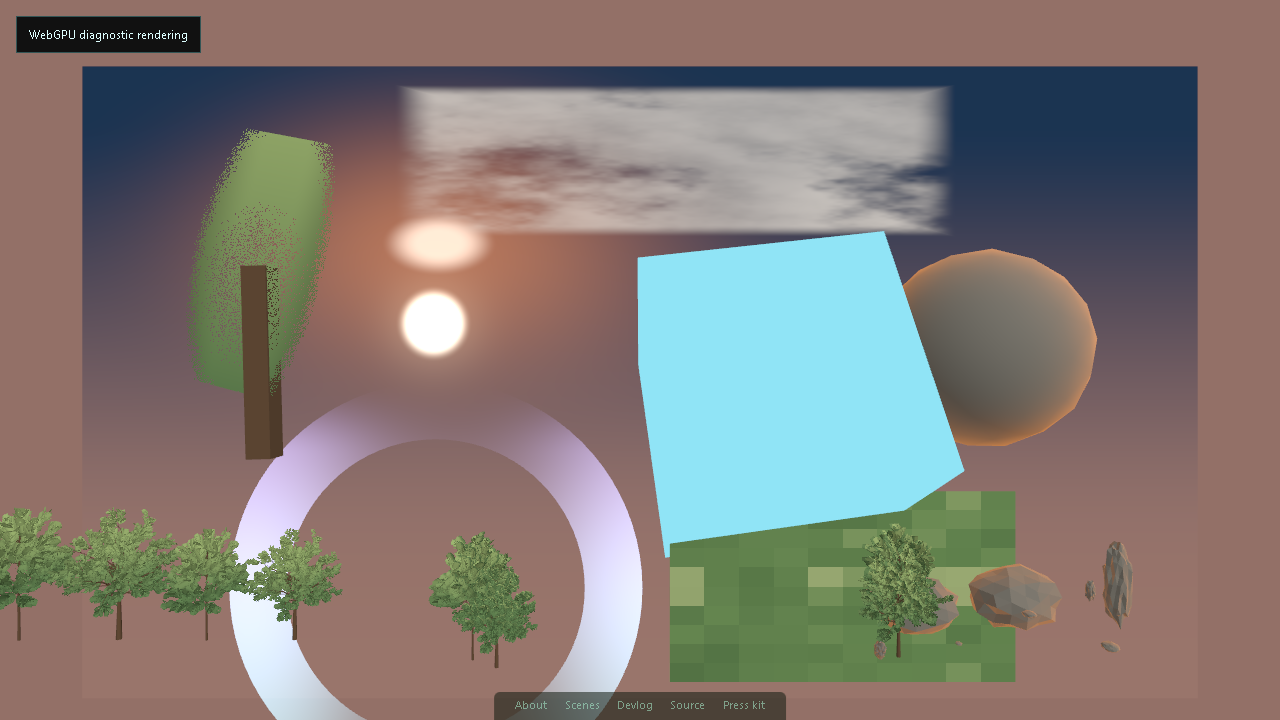
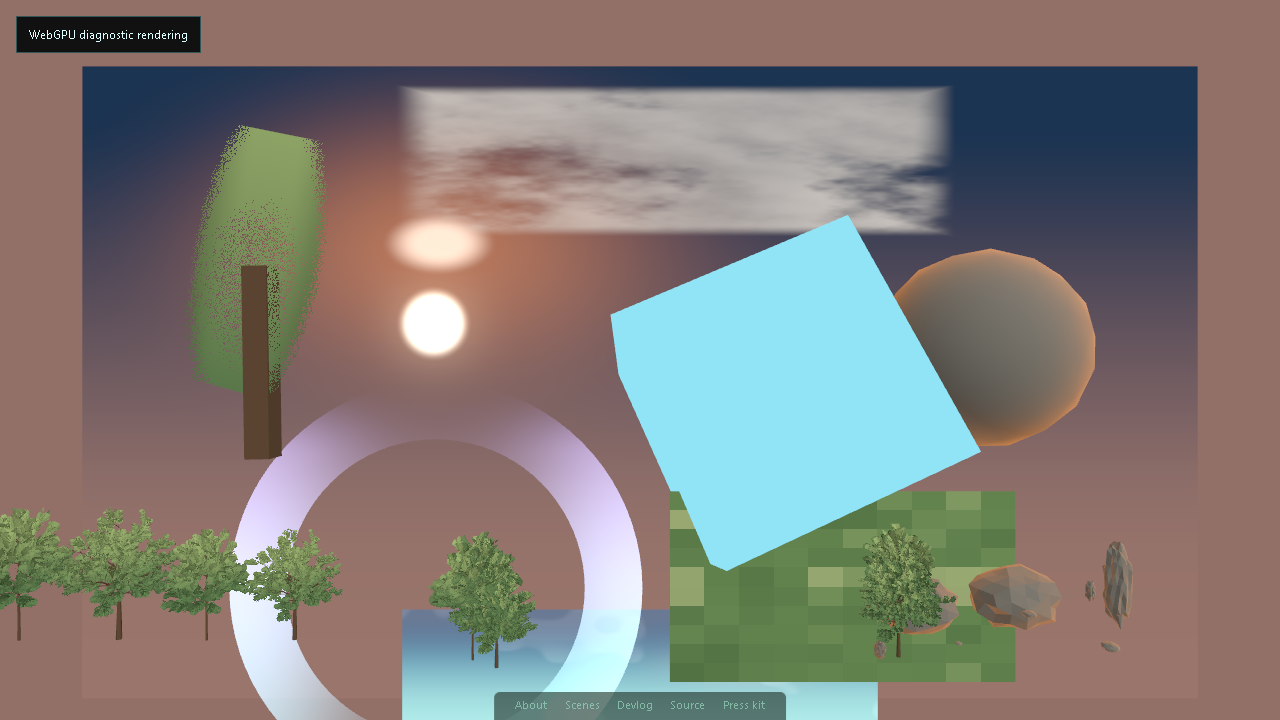
feat(konveyor): add diagnostic water island

diff --git a/js/diagnostics/webgpuDiagnostic.js b/js/diagnostics/webgpuDiagnostic.js
@@ -6,6 +6,49 @@ import { createSkyFogSamplePacket } from '../atmosphere/skyFogSamplePacket.js';
 import { createRuntimeGlbMaterialReplacementProof } from './webgpuGlbMaterialProof.js';
 import { createRuntimeGlbPreview } from './webgpuRuntimeGlbPreview.js';
 
+const DIAGNOSTIC_WATER_PALETTE_RGB = Object.freeze({
+    shallow: [0x6f, 0xd7, 0xd2],
+    deep: [0x10, 0x36, 0x62],
+    foam: [0xea, 0xf6, 0xff],
+});
+
+const DIAGNOSTIC_FOAM_THICKNESS = 2.5;
+
+function clamp01(value) {
+    return Math.min(1, Math.max(0, value));
+}
+
+function computeDiagnosticShorelineMetrics({
+    x,
+    z,
+    centerX = 0,
+    centerZ = 0,
+    boundaryRadius,
+    boundaryFalloff,
+    foamThickness = DIAGNOSTIC_FOAM_THICKNESS,
+}) {
+    const falloff = Math.max(boundaryFalloff, 0.001);
+    const radialDistance = Math.hypot(x - centerX, z - centerZ);
+    const distanceFromShore = Math.abs(radialDistance - boundaryRadius);
+    const depthT = clamp01(distanceFromShore / falloff);
+    const foamMask = distanceFromShore < foamThickness ? 1 : 0;
+
+    return {
+        radialDistance,
+        distanceFromShore,
+        depthT,
+        foamMask,
+    };
+}
+
+function mixDiagnosticWaterBaseColor(depthT) {
+    const t = clamp01(depthT);
+    return DIAGNOSTIC_WATER_PALETTE_RGB.shallow.map((channel, index) => {
+        const deep = DIAGNOSTIC_WATER_PALETTE_RGB.deep[index];
+        return Math.round(channel + (deep - channel) * t);
+    });
+}
+
 async function loadWebGpuThree() {
     const webGpuModulePath = './vendor/three/three.webgpu.min.js';
     return import(/* @vite-ignore */ new URL(webGpuModulePath, import.meta.url).href);
@@ -149,6 +192,42 @@ export function createRockRimDiagnosticState(skyFog = createSkyFogDiagnosticStat
     };
 }
 
+function normalizedRgb(rgb) {
+    return rgb.map((channel) => Number((channel / 255).toFixed(4)));
+}
+
+export function createAnimeWaterDiagnosticState(skyFog = createSkyFogDiagnosticState()) {
+    const nearShoreMetrics = computeDiagnosticShorelineMetrics({
+        x: 0,
+        z: 0,
+        boundaryRadius: 0,
+        boundaryFalloff: 12,
+        foamThickness: DIAGNOSTIC_FOAM_THICKNESS,
+    });
+    const farWaterMetrics = computeDiagnosticShorelineMetrics({
+        x: 12,
+        z: 0,
+        boundaryRadius: 0,
+        boundaryFalloff: 12,
+        foamThickness: DIAGNOSTIC_FOAM_THICKNESS,
+    });
+
+    return {
+        shallowColor: normalizedRgb(DIAGNOSTIC_WATER_PALETTE_RGB.shallow),
+        deepColor: normalizedRgb(DIAGNOSTIC_WATER_PALETTE_RGB.deep),
+        foamColor: normalizedRgb(DIAGNOSTIC_WATER_PALETTE_RGB.foam),
+        nearShoreColor: normalizedRgb(mixDiagnosticWaterBaseColor(nearShoreMetrics.depthT)),
+        farWaterColor: normalizedRgb(mixDiagnosticWaterBaseColor(farWaterMetrics.depthT)),
+        fogColor: skyFog.fogColor,
+        sunColor: skyFog.sunColor,
+        sunDirection: skyFog.sunDirection,
+        foamThickness: DIAGNOSTIC_FOAM_THICKNESS,
+        rippleStrength: 1.0,
+        sparkleStrength: 0.7,
+        heightfieldSampling: 'deferred',
+    };
+}
+
 export function createTreeLeafDiagnosticState() {
     return {
         baseColor: [0.18, 0.34, 0.12],
@@ -163,6 +242,53 @@ export function createTreeLeafDiagnosticState() {
         occluderPeak: 0.62,
         occluderUv: [0.5, 0.42],
     };
+}
+
+function createAnimeWaterNodeMaterial({ MeshBasicNodeMaterial, DoubleSide, TSL }, water) {
+    const { dot, float, floor, fract, length, mix, pow, sin, smoothstep, time, uv, vec2, vec3 } = TSL;
+    const hash21 = (p) => {
+        const q = fract(p.mul(vec2(123.34, 456.21)));
+        const r = q.add(dot(q, q.add(45.32)));
+        return fract(r.x.mul(r.y));
+    };
+    const valueNoise = (p) => {
+        const i = floor(p);
+        const f = fract(p);
+        const a = hash21(i);
+        const b = hash21(i.add(vec2(1.0, 0.0)));
+        const c = hash21(i.add(vec2(0.0, 1.0)));
+        const d = hash21(i.add(vec2(1.0, 1.0)));
+        const u = f.mul(f).mul(vec2(3.0, 3.0).sub(f.mul(2.0)));
+        return mix(a, b, u.x)
+            .add(c.sub(a).mul(u.y).mul(u.x.oneMinus()))
+            .add(d.sub(b).mul(u.x).mul(u.y));
+    };
+
+    const waterUv = uv();
+    const depthT = smoothstep(0.18, 0.92, waterUv.y);
+    const rippleUv = waterUv.mul(vec2(7.5, 3.8)).add(vec2(time.mul(0.08), time.mul(0.04)));
+    const rippleA = valueNoise(rippleUv);
+    const rippleB = valueNoise(rippleUv.mul(2.35).add(vec2(time.mul(0.05), time.mul(-0.03))));
+    const ripple = smoothstep(0.56, 0.66, rippleA.mul(0.68).add(rippleB.mul(0.32)))
+        .mul(water.rippleStrength * 0.08);
+    const foamNoise = valueNoise(waterUv.mul(vec2(18.0, 3.0)).add(vec2(time.mul(0.07), 0.0)));
+    const foamBand = float(1.0).sub(smoothstep(0.10, 0.22, waterUv.y.add(foamNoise.mul(0.04))));
+    const glintDelta = waterUv.sub(vec2(0.72, 0.64));
+    const glint = pow(float(1.0).sub(smoothstep(0.0, 0.42, length(glintDelta))), 4.0)
+        .mul(water.sparkleStrength);
+    const fogBlend = smoothstep(0.56, 1.0, waterUv.y).mul(0.36);
+    const baseColor = mix(vec3(...water.shallowColor), vec3(...water.deepColor), depthT)
+        .add(vec3(ripple, ripple, ripple))
+        .add(vec3(...water.sunColor).mul(glint.mul(0.35)));
+    const colorWithFoam = mix(baseColor, vec3(...water.foamColor), foamBand);
+
+    const material = new MeshBasicNodeMaterial();
+    material.name = 'konveyor-node-anime-water';
+    material.colorNode = mix(colorWithFoam, vec3(...water.fogColor), fogBlend);
+    material.side = DoubleSide;
+    material.depthWrite = true;
+    material.depthTest = true;
+    return material;
 }
 
 function createSkyFogNodeMaterial({ MeshBasicNodeMaterial, TSL }, skyFog) {
@@ -263,6 +389,7 @@ function createTreeBranchNodeMaterial({ MeshStandardNodeMaterial, TSL }) {
 export async function bootWebGpuDiagnostic() {
     const skyFog = createSkyFogDiagnosticState();
     const rockRim = createRockRimDiagnosticState(skyFog);
+    const animeWater = createAnimeWaterDiagnosticState(skyFog);
     const treeLeaf = createTreeLeafDiagnosticState();
     const state = window.__sdsG = {
         ...(window.__sdsG || {}),
@@ -270,9 +397,10 @@ export async function bootWebGpuDiagnostic() {
         requested: true,
         ok: false,
         renderer: 'webgpu',
-        islands: ['sun-billboard', 'portal-ring', 'meadow-quad', 'cloud-plane', 'sky-fog', 'rock-rim', 'tree-leaf', 'glb-material-replacement', 'runtime-glb-material-proof', 'runtime-glb-rendered-clones', 'production-placement-preview', 'production-instanced-tree-preview', 'diagnostic-rock-instancing-preview'],
+        islands: ['sun-billboard', 'portal-ring', 'meadow-quad', 'cloud-plane', 'sky-fog', 'rock-rim', 'tree-leaf', 'anime-water', 'glb-material-replacement', 'runtime-glb-material-proof', 'runtime-glb-rendered-clones', 'production-placement-preview', 'production-instanced-tree-preview', 'diagnostic-rock-instancing-preview'],
         skyFog,
         rockRim,
+        animeWater,
         treeLeaf,
         materialReplacement: null,
         runtimeGlbReplacement: null,
@@ -462,6 +590,13 @@ export async function bootWebGpuDiagnostic() {
     meadow.position.set(0.85, -0.75, 0.1);
     scene.add(meadow);
 
+    const water = new Mesh(
+        new PlaneGeometry(2.0, 0.62, 1, 1),
+        createAnimeWaterNodeMaterial({ MeshBasicNodeMaterial, DoubleSide, TSL }, animeWater)
+    );
+    water.position.set(0.0, -1.16, 0.09);
+    scene.add(water);
+
     const cloudPlane = new Mesh(
         new PlaneGeometry(2.4, 0.65, 1, 1),
         createCloudPlaneNodeMaterial({ MeshBasicNodeMaterial, DoubleSide, TSL })
@@ -508,6 +643,8 @@ export async function bootWebGpuDiagnostic() {
         portal.material.dispose();
         meadow.geometry.dispose();
         meadow.material.dispose();
+        water.geometry.dispose();
+        water.material.dispose();
         cloudPlane.geometry.dispose();
         cloudPlane.material.dispose();
         renderer.dispose();

diff --git a/tests/webgpu-diagnostic.spec.js b/tests/webgpu-diagnostic.spec.js
@@ -2,6 +2,7 @@ import { describe, expect, it } from 'vitest';
 import * as THREE from 'three';
 
 import {
+  createAnimeWaterDiagnosticState,
   createRockRimDiagnosticState,
   createSkyFogDiagnosticState,
   createTreeLeafDiagnosticState,
@@ -18,6 +19,7 @@ import {
 } from '../js/diagnostics/webgpuGlbMaterialProof.js';
 import { RUNTIME_GLB_RENDER_PREVIEW_ASSETS } from '../js/diagnostics/webgpuRuntimeGlbPreview.js';
 import { createSkyFogSamplePacket } from '../js/atmosphere/skyFogSamplePacket.js';
+import { WATER_PALETTE_RGB, mixWaterBaseColor } from '../js/water/AnimeWater.js';
 import { createProductionTreePlacementPlan } from '../js/diagnostics/webgpuProductionPlacementPlan.js';
 import { createDiagnosticRockPlacementPlan } from '../js/diagnostics/webgpuRockPlacementPlan.js';
 import { HosekWilkieSky } from '../js/atmosphere/HosekWilkieSky.js';
@@ -45,6 +47,7 @@ describe('webgpu diagnostic sky fog state', () => {
     expect(state.cpuVisible).toBe(true);
     expect(state.horizonColor).toHaveLength(3);
     expect(state.sunColor).toHaveLength(3);
+    expect(state.sunDirection).toHaveLength(3);
     expect(state.fogColor).toEqual(
       state.horizonColor.map((v) => Number((v * state.fogDarkenMultiplier).toFixed(4)))
     );
@@ -82,6 +85,22 @@ describe('webgpu diagnostic sky fog state', () => {
     expect(rockRim.sunColorSource).toBe('skyFog.sunColor');
     expect(rockRim.rimStrength).toBeGreaterThan(0);
     expect(rockRim.rimPower).toBeGreaterThan(1);
+  });
+
+  it('keeps anime water diagnostic inputs tied to production palette and atmosphere packet', () => {
+    const skyFog = createSkyFogDiagnosticState();
+    const water = createAnimeWaterDiagnosticState(skyFog);
+    const normalize = (rgb) => rgb.map((channel) => Number((channel / 255).toFixed(4)));
+
+    expect(water.shallowColor).toEqual(normalize(WATER_PALETTE_RGB.shallow));
+    expect(water.deepColor).toEqual(normalize(WATER_PALETTE_RGB.deep));
+    expect(water.foamColor).toEqual(normalize(WATER_PALETTE_RGB.foam));
+    expect(water.nearShoreColor).toEqual(normalize(mixWaterBaseColor(0)));
+    expect(water.farWaterColor).toEqual(normalize(mixWaterBaseColor(1)));
+    expect(water.fogColor).toBe(skyFog.fogColor);
+    expect(water.sunColor).toBe(skyFog.sunColor);
+    expect(water.sunDirection).toBe(skyFog.sunDirection);
+    expect(water.heightfieldSampling).toBe('deferred');
   });
 
   it('keeps the tree leaf diagnostic scoped to wind and occluder inputs', () => {

diff --git a/js/main.js b/js/main.js
@@ -24,7 +24,6 @@ import { loadScene, listScenes, DEFAULT_SCENE_ID } from '../shared/scenes/index.
 import { Heightfield } from '../shared/terrain/Heightfield.js';
 import { Atmosphere } from './atmosphere/index.js';
 import { SunBillboard } from './effects/SunBillboard.js';
-import { screenshotCapture } from './utils/ScreenshotCapture.js';
 import { updateSceneMetadata } from './utils/seo.js';
 // Cycle 17 Phase 7: local-multiplayer modules dynamic-imported in
 // startLocalGame() so they only ship when the user actually picks Local Mode.
@@ -2139,6 +2138,9 @@ window.addEventListener('DOMContentLoaded', () => {
             .catch((err) => window.__sdsG.error = err?.message || err);
         return;
     }
+
+    import('./utils/ScreenshotCapture.js')
+        .catch((err) => console.warn('[SCREENSHOT] helper load failed:', err?.message || err));
 
     const gameInstance = new SheepDogSimulation();
 

diff --git a/js/atmosphere/skyFogSamplePacket.js b/js/atmosphere/skyFogSamplePacket.js
@@ -9,6 +9,10 @@ function colorArray(color) {
   return color.toArray().map((value) => Number(value.toFixed(4)));
 }
 
+function vectorArray(vector) {
+  return vector.toArray().map((value) => Number(value.toFixed(4)));
+}
+
 export function sampleSkyFogPacketFromSky({
   sky,
   presetName = DEFAULT_SKY_FOG_SAMPLE_PRESET,
@@ -25,6 +29,7 @@ export function sampleSkyFogPacketFromSky({
   const horizon = sky.getHorizon(new THREE.Color());
   const zenith = sky.getZenith(new THREE.Color());
   const sun = sky.getSun(new THREE.Color());
+  const sunDirection = vectorArray(sky.getSunDirection());
   const horizonColor = colorArray(horizon);
   const zenithColor = colorArray(zenith);
   const sunColor = colorArray(sun);
@@ -36,6 +41,7 @@ export function sampleSkyFogPacketFromSky({
     horizonColor,
     zenithColor,
     sunColor,
+    sunDirection,
     fogDarkenMultiplier,
     fogColor,
     fogNear,

diff --git a/docs/archive/research/konveyor-shader-surface-inventory-2026-05-14.md b/docs/archive/research/konveyor-shader-surface-inventory-2026-05-14.md
@@ -17,8 +17,11 @@ meadow-quad, cloud-plane, and sky/fog formulas are now ported inside the
 diagnostic island only. The rock-rim fresnel formula is also ported as a
 diagnostic `MeshStandardNodeMaterial` island driven by the CPU sky/fog sun
 color packet. A diagnostic tree-leaf island now covers wind displacement,
-alpha-hash posture, and a local occluder fade proxy. GLB material ownership
-proof now shows that tree LOD0/LOD1 assets have stable `branches` and `leaves`
+alpha-hash posture, and a local occluder fade proxy. A diagnostic anime-water
+island now covers production palette handoff, shoreline color bands, foam,
+ripples, sun glint, and fog-color input while leaving heightfield texture
+sampling deferred. GLB material ownership proof now shows that tree LOD0/LOD1
+assets have stable `branches` and `leaves`
 materials, while rock assets currently expose runtime-default primitive
 materials and cannot be migrated by material name. The diagnostic island now
 also includes a WebGPU material-replacement proof that exercises tree
@@ -51,7 +54,7 @@ terrain, grass, water, sheep, or Kiln impostors.
 | 2 | Portal ring | `js/effects/PortalEffect.js` | Open Country corral portal ring pulse and color phase. | Low-medium. Small shader, but user-visible objective feedback. | TSL node material or WebGPU-only diagnostic replica before wiring to the real portal. | Open Country objective visual screenshot plus completion smoke. |
 | 3 | Cloud layer | `js/atmosphere/CloudLayer.js`, `js/atmosphere/cloudShader.glsl.js` | Transparent moving sky-plane clouds. | Medium. Transparency, forceSinglePass, horizon edge fade, and time/sun uniforms. | Diagnostic cloud-plane TSL material now covers value-noise/fbm mask, sun tint, coverage, footprint fade, and time input. Production wiring still needs sky preset screenshots and fog/horizon integration. | 12-cell screenshot matrix once goldens exist, plus atmosphere specs. |
 | 4 | Hosek-Wilkie sky | `js/atmosphere/HosekWilkieSky.js`, `js/atmosphere/skyShader.glsl.js` | Analytic sky dome and horizon color source for scene fog. | High. It anchors scene fog color and Safari precision fixes. | Diagnostic sky/fog TSL prototype now exposes a CPU horizon/sun/fog packet; production wiring still needs analytic parity and preset screenshots. | Atmosphere specs, visual cells across sun presets, mobile/Safari canary. |
-| 5 | Anime water | `js/water/AnimeWater.js` | Shoreline foam, heightfield-driven foam, ripples, sun glint, fog. | High. Samples a generated heightfield `DataTexture` and drives a visible scene focal point. | TSL water node material after sky/fog inputs are stable. | Water shoreline specs, Rolling Hills/Open Country screenshots, latency. |
+| 5 | Anime water | `js/water/AnimeWater.js` | Shoreline foam, heightfield-driven foam, ripples, sun glint, fog. | High. Samples a generated heightfield `DataTexture` and drives a visible scene focal point. | Diagnostic TSL island now covers production palette, shoreline bands, foam, ripples, sun glint, and fog input. Heightfield texture sampling remains deferred before production wiring. | Water shoreline specs, Rolling Hills/Open Country screenshots, latency. |
 | 6 | Terrain ground | `js/TerrainBuilder.js` | Heightfield-displaced terrain with procedural ground color and Three fog chunks. | High. It is the base surface of every production scene and uses fog chunks. | TSL ground material with shared fog/horizon input contract. | Refactor-baseline terrain hash untouched, screenshots, perf. |
 | 7 | Grass blades | `js/GrassSystem.js`, `js/shaders/grass/*.glsl` | Instanced blade geometry, wind, interaction, LOD fade, fake SSS, manual fog. | Very high. It owns interaction feel and high-count perf. | Split: first meadow-quad TSL, then blade shader, then compute/trample experiments. | Perf, latency, visual, mobile profile, interaction smoke. |
 | 8 | Sheep instancing | `js/OptimizedSheep.js`, `js/shaders/sheep/*.glsl` | Instanced sheep geometry, animation attributes, vertex colors, manual fog. | Very high. It touches core gameplay scale and animation feel. | TSL or WebGPU instanced material only after grass/terrain fog inputs settle. | Sim fixtures unchanged, smoke, perf high-count modes. |
@@ -167,9 +170,11 @@ comments:
    keeping current WebGL `onBeforeCompile` patches as default.
 2. Keep sky/fog production wiring behind parity evidence for analytic colors,
    preset screenshots, and fog consumers.
-3. Defer terrain, water, blade grass, sheep, and Kiln impostors until the
-   smaller islands have proved material ownership, bundle posture, and visual
-   gates.
+3. Keep water production wiring deferred until the heightfield `DataTexture`
+   sampling path has its own TSL/WebGPU proof and Rolling Hills/Open Country
+   screenshots.
+4. Defer terrain, blade grass, sheep, and Kiln impostors until the smaller
+   islands have proved material ownership, bundle posture, and visual gates.
 
 ## Acceptance For The Next Code Island
 

diff --git a/progress.md b/progress.md
@@ -39,3 +39,4 @@ Current prompt for the next autonomous run: /goal On branch exp/konveyor-webgpu-
 - 2026-05-14: Extracted the native WebGPU tree-instancing proof into `js/world/konveyorNativeInstancingAdapter.js`. Package inspection found WebGL-specific `@three.ez/instanced-mesh` hooks, so the current WebGPU path stays native `THREE.InstancedMesh` while `InstancedMesh2` remains WebGL-path only.
 - 2026-05-14: Added a diagnostic rock-instancing preview. The WebGPU diagnostic now renders fixed `RockPlacement`-shaped transform samples for all 3 shipped rock GLBs through native `THREE.InstancedMesh`, records obstacle fields as evidence-only, and still leaves seeded rock generation plus shared obstacle wiring untouched.
 - 2026-05-14: Reworked the WebGPU sky/fog diagnostic packet into `js/atmosphere/skyFogSamplePacket.js` and added renderless `HosekWilkieSky({ createRenderable: false })` sampling. Focused `npx vitest run tests\webgpu-diagnostic.spec.js tests\atmosphere.spec.js` passes 52 tests, and the full packet gates passed: `npm test`, `npm run lint`, `npm run build`, `npm run native:check`, `git diff --check` (CRLF notices only), Chrome WebGPU diagnostic probe, Chrome WebGL-default probe, and refreshed `cycle36-validation/runtime/webgpu-diagnostic-islands-chrome.png`. The refreshed diagnostic JSON records `skyFog.source: "HosekWilkieSky.cpu-lut"` and `skyFog.cpuVisible: true`; the default WebGL probe remains `diagnostic: null`.
+- 2026-05-14: Added a diagnostic anime-water TSL island. The diagnostic state is tied to `js/water/AnimeWater.js` palette and shoreline helpers plus the CPU sky/fog sun, direction, and fog packet; heightfield texture sampling is explicitly `deferred`. The screenshot helper now loads after normal boot instead of inflating the critical `main` chunk, keeping the bundle ratchet green. Gates passed: `npx vitest run tests\webgpu-diagnostic.spec.js tests\water-shoreline.spec.js`, `npm test`, `npm run lint`, `npm run build`, `npm run native:check`, `git diff --check` (CRLF notices only), Chrome WebGPU diagnostic probe, Chrome WebGL-default probe, and refreshed `cycle36-validation/runtime/webgpu-diagnostic-islands-chrome.png`. The WebGPU artifact now includes `anime-water`; default WebGL still reports `diagnostic: null`.

diff --git a/docs/konveyor-autonomous-run.md b/docs/konveyor-autonomous-run.md
@@ -71,7 +71,7 @@ WebGPU now has a diagnostic island, not a production renderer:
   records the default production-preview URL with `diagnostic: null`.
 - [`archive/research/konveyor-shader-surface-inventory-2026-05-14.md`](archive/research/konveyor-shader-surface-inventory-2026-05-14.md)
   ranks the current GLSL and `onBeforeCompile` migration surface. The sun
-  billboard, portal ring, meadow-quad, cloud-plane, and sky/fog formulas are
+  billboard, portal ring, meadow-quad, cloud-plane, sky/fog, and anime-water formulas are
   now ported inside the diagnostic island. The rock-rim fresnel formula is
   also ported as the first `onBeforeCompile` replacement island, and a
   diagnostic tree-leaf island now covers wind displacement, alpha-hash posture,
@@ -144,7 +144,9 @@ Recommended order:
 
 1. **Pick the next smallest production-adjacent material island.** The sky/fog
    diagnostic prototype now preserves a renderless CPU-accessible
-   horizon/sun/fog packet,
+   horizon/sun/fog packet, and the anime-water diagnostic island now covers
+   the production palette, shoreline bands, foam, ripples, sun glint, and
+   fog-color inputs while deferring heightfield texture sampling.
    the rock-rim TSL prototype covers the smallest `onBeforeCompile`
    replacement formula, and the tree-leaf TSL prototype covers wind,
    alpha-hash posture, and occluder fade inputs. GLB material ownership proof

diff --git a/docs/konveyor-sds.md b/docs/konveyor-sds.md
@@ -51,7 +51,10 @@ As of 2026-05-14, SDS is not a WebGPU project yet.
   normal WebGL bundle path as default. Current diagnostic islands cover the sun
   billboard, portal ring, meadow quad, cloud plane, and a renderless sky/fog
   CPU sample packet from `js/atmosphere/skyFogSamplePacket.js`, plus the
-  rock-rim fresnel formula and a tree-leaf wind/alpha/occluder proxy. A
+  rock-rim fresnel formula, a tree-leaf wind/alpha/occluder proxy, and a
+  diagnostic anime-water material covering palette, shoreline bands, foam,
+  ripples, sun glint, and fog input. Heightfield water texture sampling remains
+  deferred before production water wiring. A
   diagnostic material-replacement island proves tree replacement by
   `branches`/`leaves` material names and rock replacement by traversal. GLB
   material ownership proof now shows that tree LOD0/LOD1 assets can be addressed
